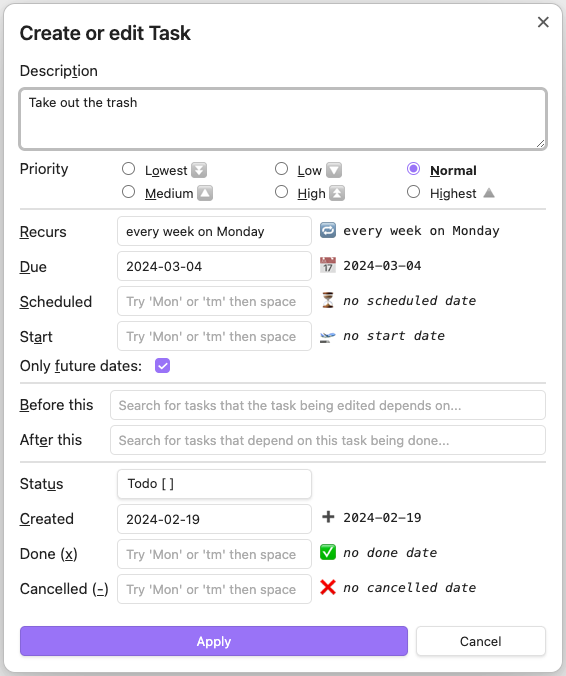
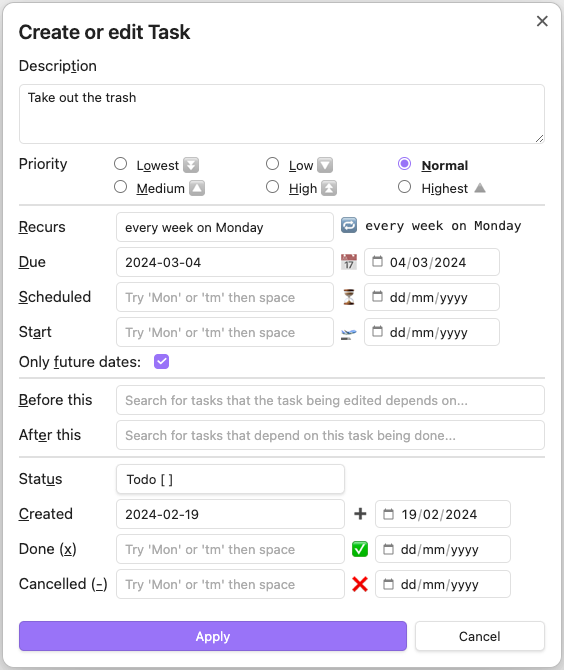
docs: Document the Date Picker in the Edit Task modal

diff --git a/docs/Editing/Create or edit Task.md b/docs/Editing/Create or edit Task.md
@@ -96,7 +96,21 @@ Note that relative dates will be always interpreted as being in the future, beca
 > - `Only future dates` was introduced in Tasks 1.15.0.
 > - Editing of [[Dates#Created date|created]], [[Dates#Done date|done]] and [[Dates#Cancelled date|cancelled]] dates was introduced in Tasks 5.5.0.
 
-### Date abbreviations
+#### Date picker
+
+> [!released]
+> Introduced in Tasks X.Y.Z.
+
+The modal provides a date picker, for easy selection of dates for your tasks.
+
+It uses a native date-picker on each platform, so the exact appearance and behaviour will vary.
+
+The screenshot below is from a Mac.
+
+![The date-picker allows easy mouse and keyboard adding and editing of dates](../images/modal-date-picker.png)
+<span class="caption">The date-picker allows easy mouse and keyboard adding and editing of dates</span>
+
+#### Date abbreviations
 
 > [!released]
 Introduced in Tasks 1.8.0.

diff --git a/docs/What is New/Changelog.md b/docs/What is New/Changelog.md
@@ -12,6 +12,8 @@ _In recent [Tasks releases](https://github.com/obsidian-tasks-group/obsidian-tas
 
 ## 7.x releases
 
+- X.Y.Z:
+  - Add [[Create or edit Task#Date picker|date picker]] to the Edit Task modal.
 - 7.12.0:
   - Add [[Layout#Hide and Show Tree|display of nested tasks]] in search results, with `show tree`
 - 7.11.0:
